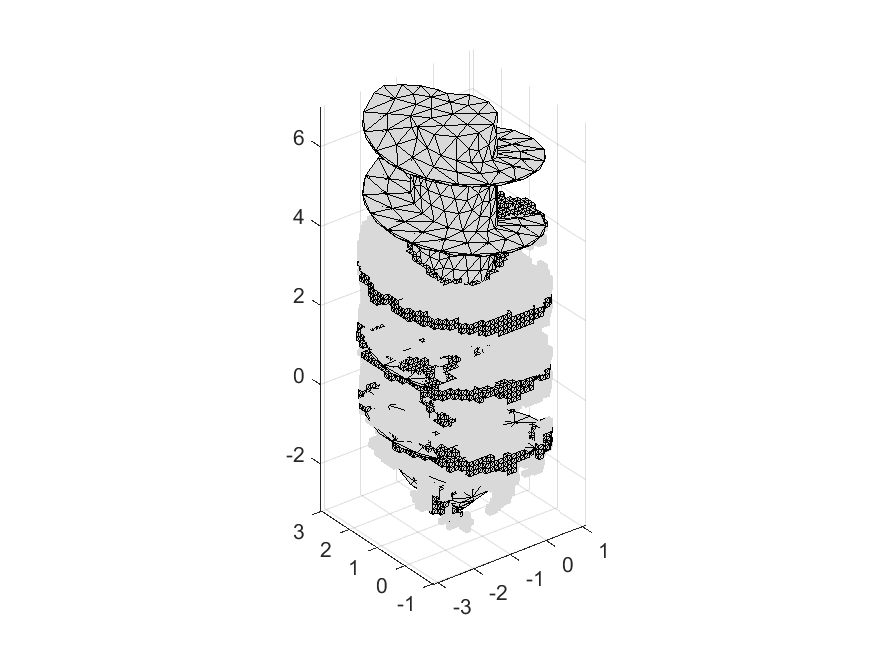
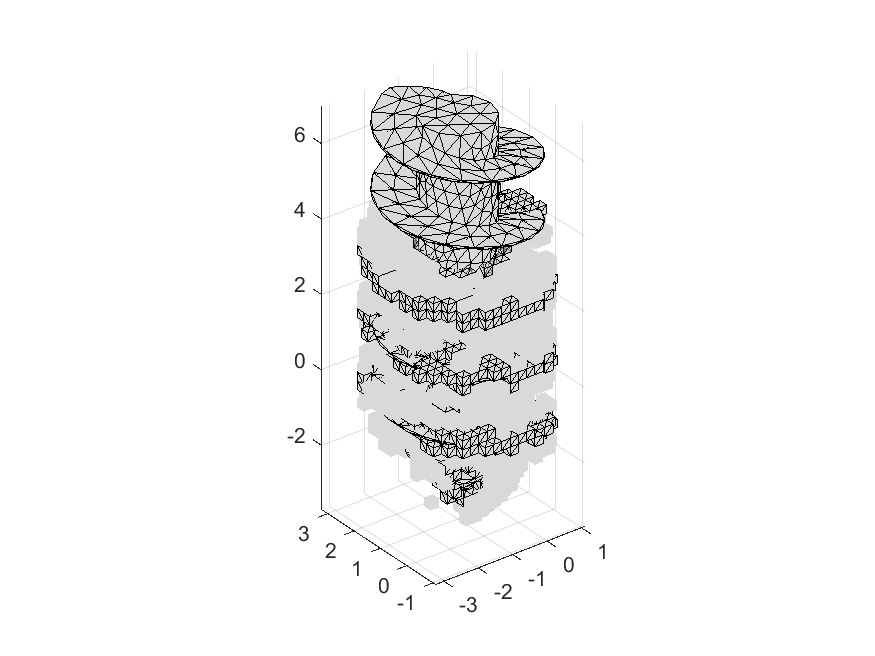
bug fund and solved

diff --git a/meshBoolean/funMeshBoolean.m b/meshBoolean/funMeshBoolean.m
@@ -5,7 +5,7 @@ function [toDelEles] = funMeshBoolean(boneData, screwData, outerRadius, innerRad
 % input outerRadius:        Outer radius of screw
 % input innerRadius:        Screw movement due to insertion position
 zCoor = -1; %Lets say -1
-disCon = 0.30;
+disCon = 0.50;
 %% screw geometry and preprocessing
 % loop over Hex mesh check if any point inner Outer diameter
 eleNodesBoolDist = reshape(((boneData.allNodes(boneData.Elements(:,2:9),2)-screwMove(1)).^2+...
@@ -15,19 +15,21 @@ eleNOUTBool = (eleNodesBoolDist <= outerRadius^2);
 ele2CheckOUT = unique(eleNOUTBoolRow);
 % hexEleZoneNode = boneData.Elements(ele2Check,:);
 
-%% check if hex mesh in inner diameter range & higher than a value (TO DELETE).
+%% check if hex mesh in inner diameter range && higher than a value (TO DELETE).
 eleNINNBool = (eleNodesBoolDist <= innerRadius^2);
 [eleNINNBoolRow, ~] = find(eleNINNBool);
-ele2CheckINN = unique(eleNINNBoolRow);
+ele2DELINN = unique(eleNINNBoolRow);
 
-eleCoorZ = reshape(boneData.allNodes(boneData.Elements(:,2:9),2),[],8);
+eleCoorZ = reshape(boneData.allNodes(boneData.Elements(:,2:9),4),[],8);
 % Z coordinate higher to be deleted
 eleNUPPBool = (eleCoorZ >= zCoor);
 [eleNUPPBoolRow, ~] = find(eleNUPPBool);
-ele2CheckUPP = unique(eleNUPPBoolRow);
-
+ele2DELUPP = unique(eleNUPPBoolRow);
+% elements to be deleted
+ele2Del = intersect(ele2DELINN,ele2DELUPP);
+ele2DelMat = boneData.Elements(ele2Del,:);
 % Outter minus (inner and upper)
-ele2Check = setdiff(ele2CheckOUT,intersect(ele2CheckINN,ele2CheckUPP));
+ele2Check = setdiff(ele2CheckOUT,ele2Del);
 
 %% Prescan if hex mesh distance to tet mesh (critical distance setting)
 eleNBCoor = [mean(reshape(boneData.allNodes(boneData.Elements(:,2:9),2),[],8),2),...
@@ -76,7 +78,7 @@ parfor ii=1: size(hexEleZoneNode,1)
         end
     end
 end
-ele2Del = hexEleZoneNode(ele2Del,:);
+ele2DelMat = [ele2DelMat;hexEleZoneNode(ele2Del,:)];
 %% plot the delete meshes
 screwBoneMeshDel = figure();
 plotMesh(screwData.Elements(:,2:5), screwData.Nodes, 1.0, '-');
@@ -84,11 +86,11 @@ hold on
 plotMesh(hexEleZoneNode(:,2:9), boneData.allNodes, 1.0, 'none');
 hold on
 transPara = 0.5;
-plotMesh(ele2Del(:,2:9), boneData.allNodes, transPara, '-');
+plotMesh(ele2DelMat(:,2:9), boneData.allNodes, transPara, '-');
 axis equal
 hold off
 saveas(screwBoneMeshDel, 'screwBoneMeshDel.png');
 %% 
-toDelEles = ele2Del(:,1);
+toDelEles = ele2DelMat(:,1);
 toc
 end
